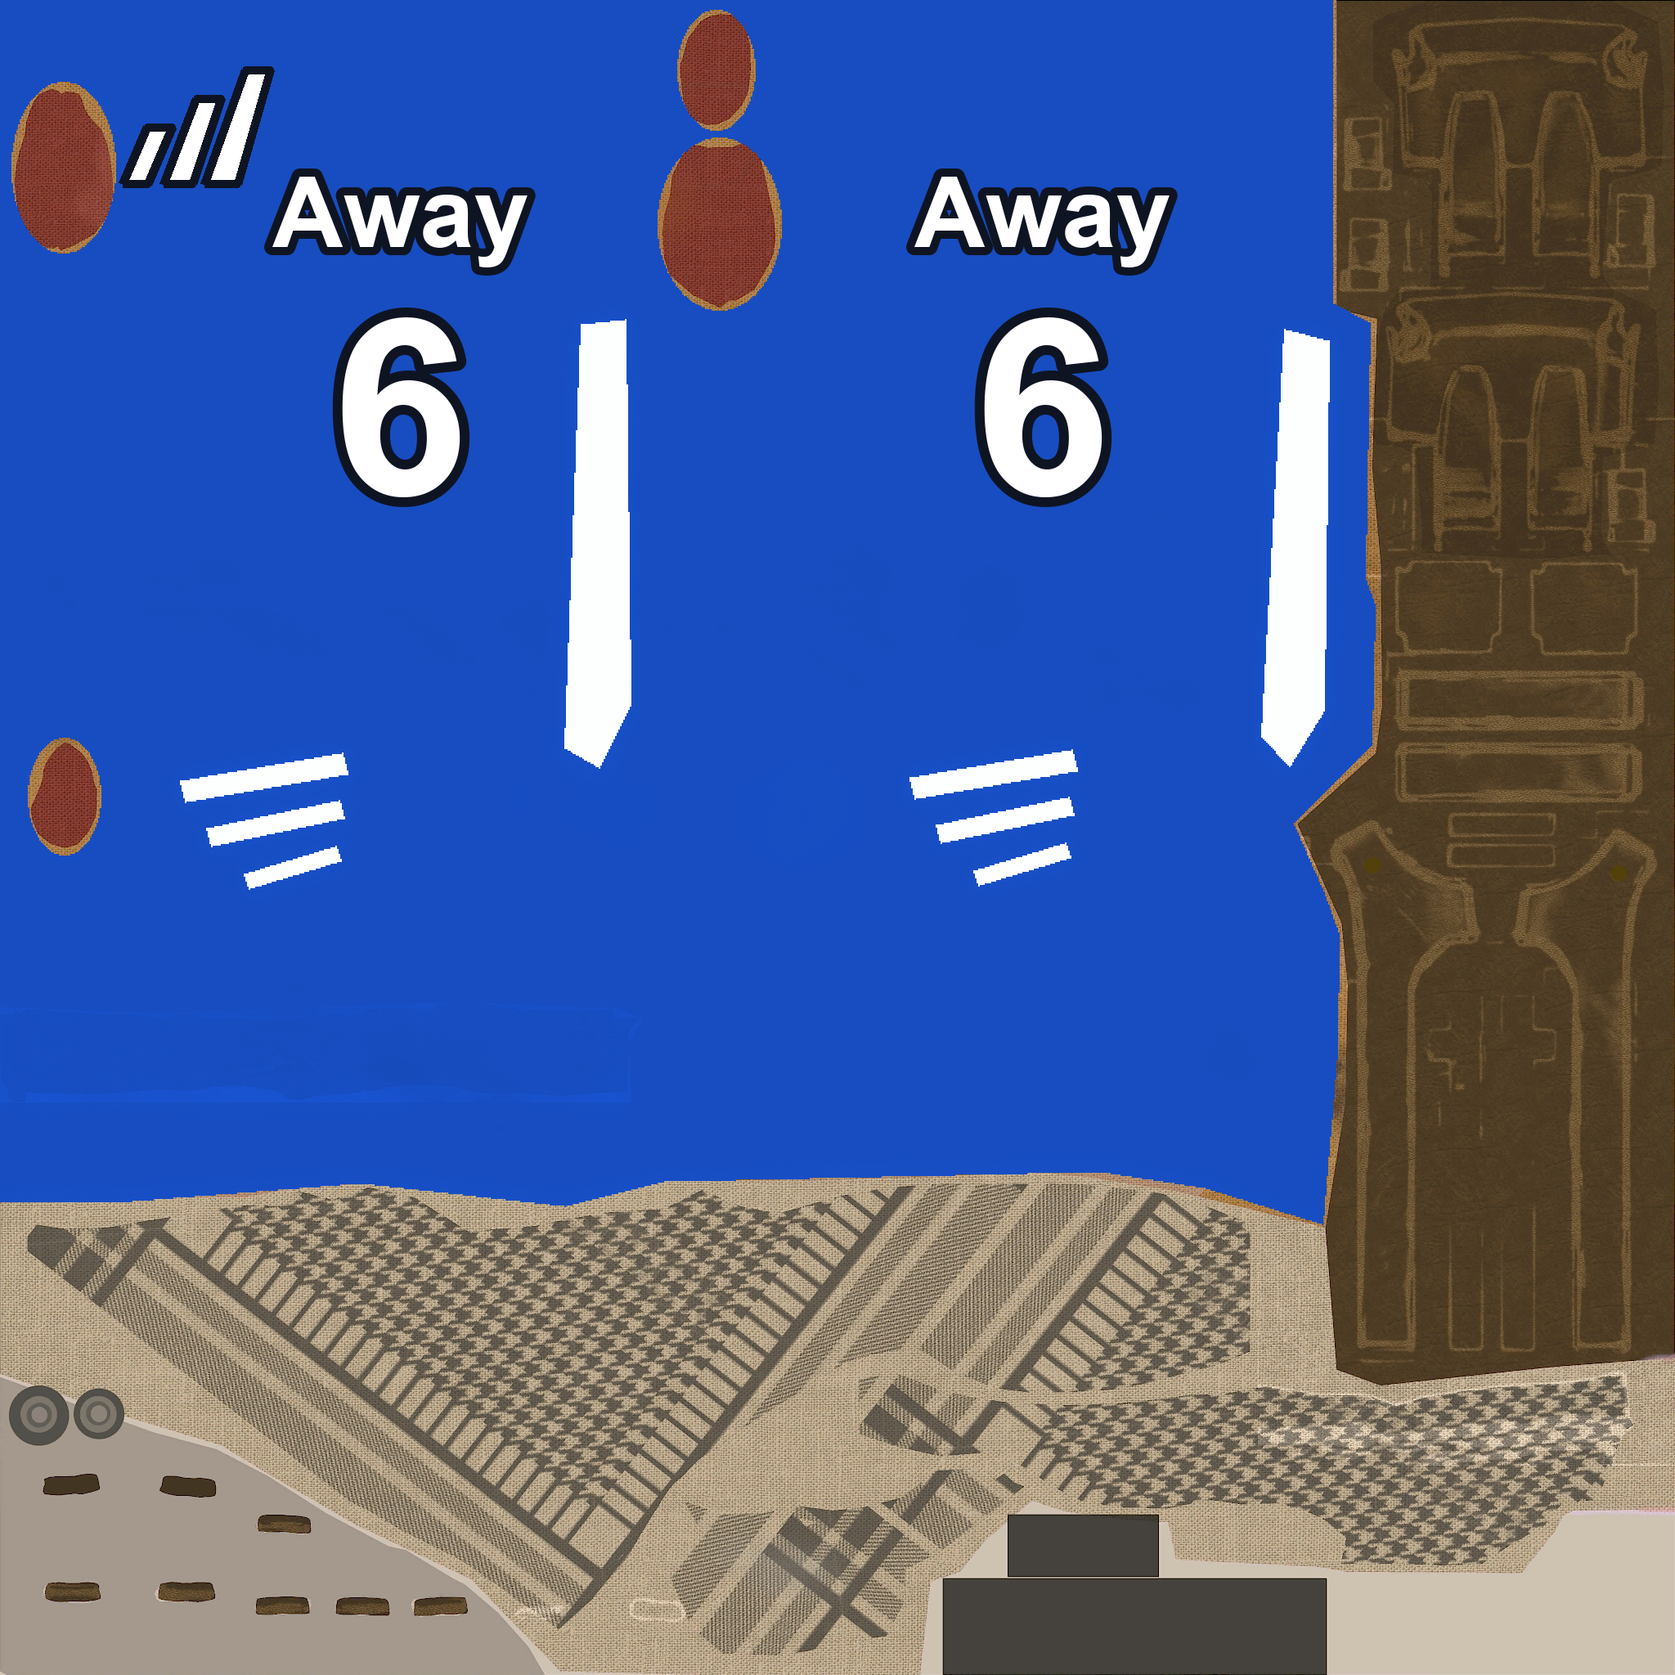
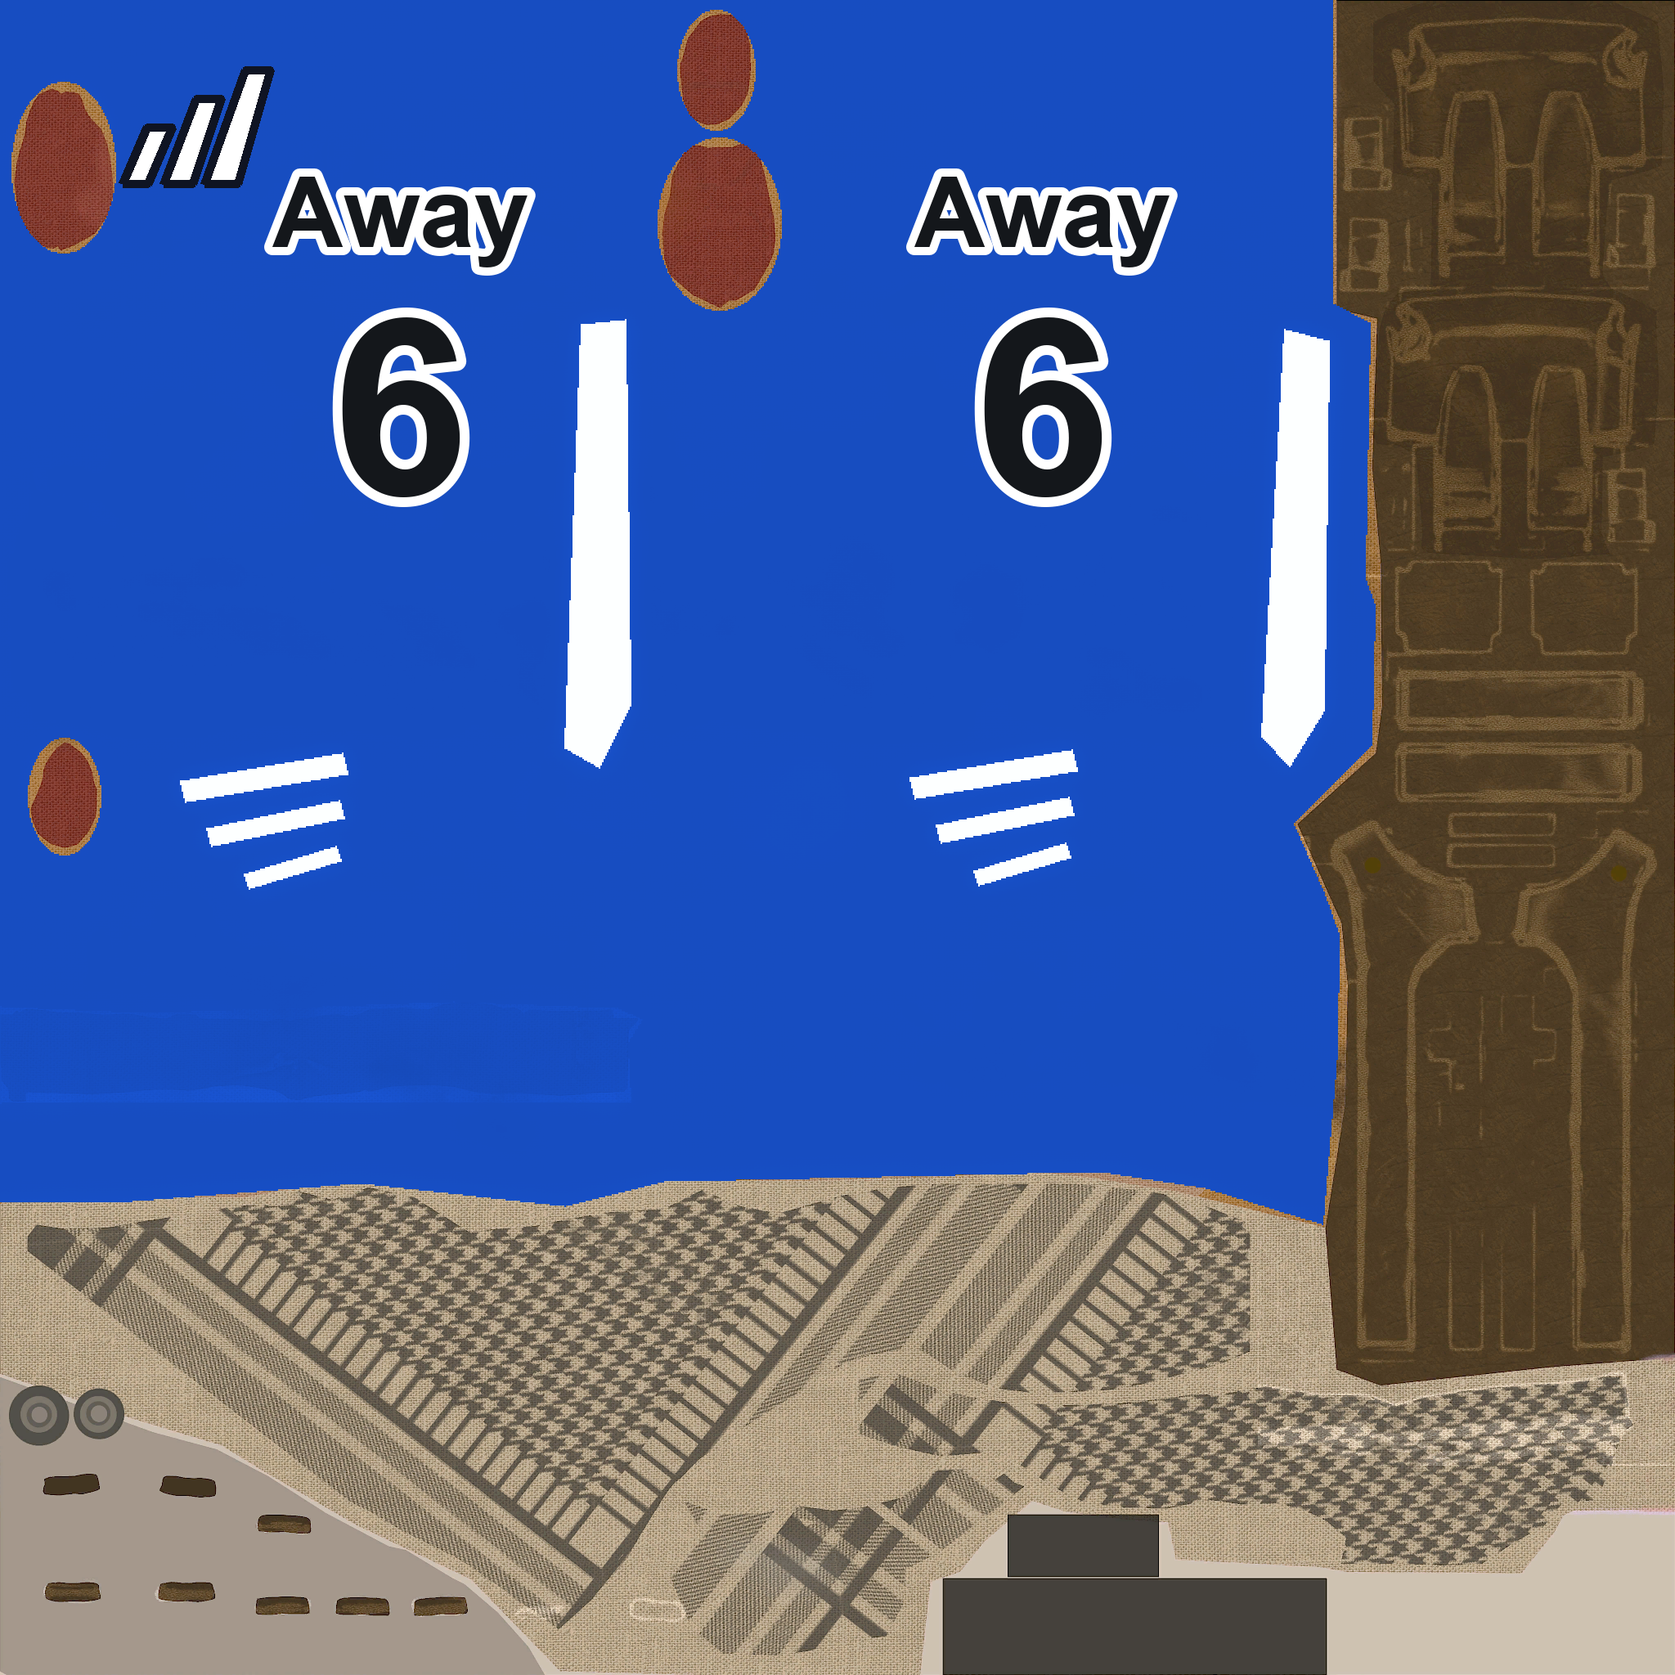
Add jersey outline correction and front inspection camera

diff --git a/test/third-person.test.js b/test/third-person.test.js
@@ -35,7 +35,10 @@ test('third person uses one camera prop per opted-in slot and resets it cleanly'
 test('!tp is permissionless and never touches player weapons', () => {
   assert.match(moduleSource, /css_sm2thirdperson/);
   assert.match(moduleSource, /css_tp/);
+  assert.match(moduleSource, /css_sm2thirdperson_front/);
+  assert.match(moduleSource, /css_tpf/);
   assert.match(socialSource, /!tp - toggle your third-person camera/);
+  assert.match(socialSource, /!tpf - view your player from the front/);
   const toggle = moduleSource.slice(moduleSource.indexOf("private void OnThirdPersonToggleCommand"), moduleSource.indexOf("private bool AttachThirdPersonCamera"));
   assert.doesNotMatch(toggle, /RequirePermission/);
   const tuning = moduleSource.slice(moduleSource.indexOf("private void OnThirdPersonTuneCommand"), moduleSource.indexOf("private void ThirdPersonOnUnload"));
@@ -51,6 +54,14 @@ test('third-person camera follows smoothly from pawn eye position and angles', (
   assert.match(moduleSource, /pawn\.V_angle/);
   assert.match(moduleSource, /LerpThirdPersonPosition/);
   assert.match(moduleSource, /camProp\.Teleport\(smoothedPosition, targetAngles, new Vector\(\)\)/);
+});
+
+test('!tpf uses a front-facing look-at transform and shares the third-person lifecycle', () => {
+  assert.match(moduleSource, /_thirdPersonFrontSlots/);
+  assert.match(moduleSource, /frontFacing/);
+  assert.match(moduleSource, /eyePosition\.X \+ forward\.X \* _thirdPersonDistance/);
+  assert.match(moduleSource, /MathF\.Atan2\(-toFace\.Z, horizontalDistance\)/);
+  assert.match(moduleSource, /front-facing third-person camera/);
 });
 
 test('third-person lifecycle is wired for load, tick, respawn, disconnect, and unload', () => {

diff --git a/src/server-plugin/SoccerModMvp/SoccerModMvpPlugin.ThirdPerson.cs b/src/server-plugin/SoccerModMvp/SoccerModMvpPlugin.ThirdPerson.cs
@@ -21,6 +21,7 @@ public sealed partial class SoccerModMvpPlugin
     private float _thirdPersonHeight = DefaultThirdPersonHeight;
 
     private readonly HashSet<int> _thirdPersonSlots = new();
+    private readonly HashSet<int> _thirdPersonFrontSlots = new();
     private readonly Dictionary<int, CDynamicProp> _thirdPersonCamBySlot = new();
 
     private void ThirdPersonOnLoad()
@@ -33,6 +34,14 @@ public sealed partial class SoccerModMvpPlugin
             "css_tp",
             "Chat alias: !tp toggles your third-person camera.",
             OnThirdPersonToggleCommand);
+        AddCommand(
+            "css_sm2thirdperson_front",
+            "Toggle your front-facing third-person camera.",
+            OnThirdPersonFrontToggleCommand);
+        AddCommand(
+            "css_tpf",
+            "Chat alias: !tpf toggles your front-facing third-person camera.",
+            OnThirdPersonFrontToggleCommand);
         AddCommand(
             "css_sm2tp_tune",
             "Admin: tune the third-person camera (distance, height above eyes).",
@@ -76,6 +85,7 @@ public sealed partial class SoccerModMvpPlugin
         }
 
         _thirdPersonSlots.Clear();
+        _thirdPersonFrontSlots.Clear();
     }
 
     private void ThirdPersonOnPlayerSpawn(CCSPlayerController player)
@@ -100,6 +110,7 @@ public sealed partial class SoccerModMvpPlugin
     {
         RemoveThirdPersonCamera(slot);
         _thirdPersonSlots.Remove(slot);
+        _thirdPersonFrontSlots.Remove(slot);
     }
 
     private void ThirdPersonOnTick()
@@ -117,7 +128,11 @@ public sealed partial class SoccerModMvpPlugin
             if (player is not { IsValid: true }
                 || pawn is not { IsValid: true }
                 || !IsAlive(pawn)
-                || !TryGetThirdPersonCameraTransform(pawn, out var targetPosition, out var targetAngles))
+                || !TryGetThirdPersonCameraTransform(
+                    pawn,
+                    _thirdPersonFrontSlots.Contains(slot),
+                    out var targetPosition,
+                    out var targetAngles))
             {
                 continue;
             }
@@ -152,6 +167,7 @@ public sealed partial class SoccerModMvpPlugin
         }
 
         _thirdPersonSlots.Add(player.Slot);
+        _thirdPersonFrontSlots.Remove(player.Slot);
         if (!AttachThirdPersonCamera(player, recreate: true, "toggle_on"))
         {
             _thirdPersonSlots.Remove(player.Slot);
@@ -160,6 +176,40 @@ public sealed partial class SoccerModMvpPlugin
         }
 
         command.ReplyToCommand("[SM] third-person camera: on (type !tp again to disable)");
+    }
+
+    private void OnThirdPersonFrontToggleCommand(CCSPlayerController? player, CommandInfo command)
+    {
+        if (player is not { IsValid: true })
+        {
+            command.ReplyToCommand("[SM] third person is available to in-game players only");
+            return;
+        }
+
+        if (_thirdPersonSlots.Contains(player.Slot)
+            && _thirdPersonFrontSlots.Contains(player.Slot))
+        {
+            DisableThirdPerson(player);
+            command.ReplyToCommand("[SM] front-facing third-person camera: off");
+            return;
+        }
+
+        var wasThirdPersonEnabled = _thirdPersonSlots.Contains(player.Slot);
+        _thirdPersonSlots.Add(player.Slot);
+        _thirdPersonFrontSlots.Add(player.Slot);
+        if (!AttachThirdPersonCamera(player, recreate: false, "front_toggle_on"))
+        {
+            _thirdPersonFrontSlots.Remove(player.Slot);
+            if (!wasThirdPersonEnabled)
+            {
+                _thirdPersonSlots.Remove(player.Slot);
+            }
+
+            command.ReplyToCommand("[SM] join a team and spawn before enabling front-facing third person");
+            return;
+        }
+
+        command.ReplyToCommand("[SM] front-facing third-person camera: on (type !tpf again to disable)");
     }
 
     private bool AttachThirdPersonCamera(CCSPlayerController player, bool recreate, string reason)
@@ -174,7 +224,11 @@ public sealed partial class SoccerModMvpPlugin
 
         var cameraServices = pawn.CameraServices;
         if (cameraServices is null
-            || !TryGetThirdPersonCameraTransform(pawn, out var position, out var angles))
+            || !TryGetThirdPersonCameraTransform(
+                pawn,
+                _thirdPersonFrontSlots.Contains(player.Slot),
+                out var position,
+                out var angles))
         {
             return false;
         }
@@ -240,6 +294,7 @@ public sealed partial class SoccerModMvpPlugin
         ResetThirdPersonView(player);
         RemoveThirdPersonCamera(player.Slot);
         _thirdPersonSlots.Remove(player.Slot);
+        _thirdPersonFrontSlots.Remove(player.Slot);
     }
 
     private static void ResetThirdPersonView(CCSPlayerController player)
@@ -271,6 +326,7 @@ public sealed partial class SoccerModMvpPlugin
 
     private bool TryGetThirdPersonCameraTransform(
         CCSPlayerPawn pawn,
+        bool frontFacing,
         out Vector position,
         out QAngle angles)
     {
@@ -303,11 +359,33 @@ public sealed partial class SoccerModMvpPlugin
             cosPitch * MathF.Sin(yawRadians),
             -MathF.Sin(pitchRadians));
 
+        if (!frontFacing)
+        {
+            position = new Vector(
+                eyePosition.X - forward.X * _thirdPersonDistance,
+                eyePosition.Y - forward.Y * _thirdPersonDistance,
+                eyePosition.Z - forward.Z * _thirdPersonDistance + _thirdPersonHeight);
+            angles = new QAngle(eyeAngles.X, eyeAngles.Y, 0.0f);
+            return true;
+        }
+
+        // Front inspection mode puts the camera in front of the player and
+        // aims back at the eyes, so the model's face stays visible while the
+        // player turns. Use a look-at angle instead of simply adding 180°:
+        // the height offset otherwise leaves the camera looking over the head.
         position = new Vector(
-            eyePosition.X - forward.X * _thirdPersonDistance,
-            eyePosition.Y - forward.Y * _thirdPersonDistance,
-            eyePosition.Z - forward.Z * _thirdPersonDistance + _thirdPersonHeight);
-        angles = new QAngle(eyeAngles.X, eyeAngles.Y, 0.0f);
+            eyePosition.X + forward.X * _thirdPersonDistance,
+            eyePosition.Y + forward.Y * _thirdPersonDistance,
+            eyePosition.Z + forward.Z * _thirdPersonDistance + _thirdPersonHeight);
+        var toFace = new Vector(
+            eyePosition.X - position.X,
+            eyePosition.Y - position.Y,
+            eyePosition.Z - position.Z);
+        var horizontalDistance = MathF.Sqrt(
+            (toFace.X * toFace.X) + (toFace.Y * toFace.Y));
+        var frontPitch = MathF.Atan2(-toFace.Z, horizontalDistance) * (180.0f / MathF.PI);
+        var frontYaw = MathF.Atan2(toFace.Y, toFace.X) * (180.0f / MathF.PI);
+        angles = new QAngle(frontPitch, frontYaw, 0.0f);
         return true;
     }
 

diff --git a/src/server-plugin/SoccerModMvp/SoccerModMvpPlugin.Social.cs b/src/server-plugin/SoccerModMvp/SoccerModMvpPlugin.Social.cs
@@ -233,6 +233,7 @@ public sealed partial class SoccerModMvpPlugin
         command.ReplyToCommand("[SM] !forfeit - vote to forfeit for your team");
         command.ReplyToCommand("[SM] !sprint - burst of speed (or hold your +use key)");
         command.ReplyToCommand("[SM] !tp - toggle your third-person camera");
+        command.ReplyToCommand("[SM] !tpf - view your player from the front");
         command.ReplyToCommand("[SM] !gk - keeper skin + unlimited reduced-speed sprint inside your own small GK box");
         command.ReplyToCommand("[SM] !pos - set your cap positions");
         command.ReplyToCommand("[SM] !spec me - move yourself to spectator");
@@ -252,6 +253,7 @@ public sealed partial class SoccerModMvpPlugin
         player.PrintToChat(" \x04[SM]\x01 !forfeit - vote to forfeit for your team");
         player.PrintToChat(" \x04[SM]\x01 !sprint - burst of speed (or hold your +use key)");
         player.PrintToChat(" \x04[SM]\x01 !tp - toggle your third-person camera");
+        player.PrintToChat(" \x04[SM]\x01 !tpf - view your player from the front");
         player.PrintToChat(" \x04[SM]\x01 !gk - keeper skin + unlimited reduced-speed sprint inside your own small GK box");
         player.PrintToChat(" \x04[SM]\x01 !pos - set your cap positions");
         player.PrintToChat(" \x04[SM]\x01 !spec me - move yourself to spectator");

diff --git a/docs/jerseys/paint-gk-gearless.py b/docs/jerseys/paint-gk-gearless.py
@@ -225,7 +225,7 @@ def main() -> None:
     reports = []
     reports.append(paint_body(args.stock_dir, "gkhome_gearless", (111, 40, 145), (20, 23, 27), (255, 255, 255), (20, 23, 27)))
     reports.append(paint_legs(args.stock_dir, "gkhome_gearless", (20, 23, 27), (111, 40, 145), (20, 23, 27), (20, 23, 27), geometry))
-    reports.append(paint_body(args.stock_dir, "gkaway_gearless", (238, 241, 245), (25, 83, 185), (20, 23, 27), (245, 245, 245)))
+    reports.append(paint_body(args.stock_dir, "gkaway_gearless", (238, 241, 245), (25, 83, 185), (255, 255, 255), (20, 23, 27)))
     reports.append(paint_legs(args.stock_dir, "gkaway_gearless", (232, 236, 243), (232, 236, 243), (25, 83, 185), (52, 194, 80), geometry))
     reports.append(make_glove_texture("gkhome_gearless_gloves_color", (245, 245, 245)))
     reports.append(make_glove_texture("gkaway_gearless_gloves_color", (25, 93, 220)))

diff --git a/docs/jerseys/paint-remaining-kits.py b/docs/jerseys/paint-remaining-kits.py
@@ -85,8 +85,8 @@ def main():
   editable_body=bm
   if kit=='away':
    number_mask, number_layer = render_fixed_number(
-    base.size, '6', (255,255,255), (15,20,35), label='Away',
-    label_colour=(255,255,255), label_stroke=(15,20,35),
+    base.size, '6', (20,23,27), (255,255,255), label='Away',
+    label_colour=(20,23,27), label_stroke=(255,255,255),
    )
    logo_mask, logo_layer = render_adidas_front(base.size, (255,255,255), (15,20,35))
    editable_body=Image.fromarray(np.maximum.reduce((np.asarray(bm), np.asarray(number_mask), np.asarray(logo_mask))))

diff --git a/docs/jerseys/2026-09-09-outline-and-tpf-update.md b/docs/jerseys/2026-09-09-outline-and-tpf-update.md
@@ -1,0 +1,41 @@
+# Jersey outline and front-inspection update — September 9, 2026
+
+This revision keeps the approved static jersey setup and changes only the
+requested Away text treatment plus the server-side inspection command.
+
+## Texture correction
+
+- Blue Away field jersey: fixed `6` and `Away` use black fill with white
+  borders.
+- White Away goalkeeper jersey: fixed `1` and `Away` use white fill with
+  black borders.
+- Home textures and the restored belt geometry are unchanged.
+- Dynamic jersey rendering remains disabled; the fixed textures are the
+  source of the displayed numbers and labels.
+
+The package is intentionally minimal: compared with the preceding live VPK,
+only these two compiled body textures differ:
+
+```text
+materials/soccermod/kits/tm_leet_v2_body_variantb_color_png_6c16c1b4.vtex_c
+materials/soccermod/kits/tm_leet_v2_body_variantb_gkaway_color_png_53a6157d.vtex_c
+```
+
+## `!tpf`
+
+`!tpf` (console command `css_tpf`) toggles a front-facing third-person
+inspection camera. The camera sits in front of the player, aims back at the
+player's eyes, follows movement smoothly, and uses the same spawn,
+disconnect, and cleanup lifecycle as `!tp`. It does not remove or replace
+weapons. `!tp` remains the normal rear third-person toggle.
+
+## Verified package
+
+```text
+artifacts/kits-jersey-outline-tpf-upload/3797479770_dir.vpk
+size: 33,900,554 bytes
+sha256: DC1A0AD8F09AAAC06A06D82E27129DE752571253F88D700D100E2B6ED3162675
+```
+
+Source2Viewer VPK verification passed. The corresponding Workshop update
+manifest is `workshop-jersey-outline-tpf-update.vdf`.

diff --git a/docs/jerseys/INSTALLATION.md b/docs/jerseys/INSTALLATION.md
@@ -11,16 +11,16 @@ contains the four compiled player models, materials and textures:
 | Squad | Field player | Goalkeeper |
 |---|---|---|
 | Home | red kit with fixed `8` | purple/black kit with fixed `1` and white gloves |
-| Away | blue kit with fixed `6` | white kit with black `1` and black `Away` label with white border |
+| Away | blue kit with fixed `6` (black fill, white border) | white kit with white `1` and white `Away` label (black borders) |
 
 The latest belt-revert revision restores the previously approved belt/waist
 geometry. The other previously removed gear remains removed from the models;
 the belt correction is a model change, not a texture cover-up.
 
-The current verified package is 33,898,209 bytes with SHA-256:
+The current verified package is 33,900,554 bytes with SHA-256:
 
 ```text
[2 lines of base64/hex data omitted]
 ```
 
 ## Server prerequisites
@@ -83,6 +83,11 @@ The expected state is `kits` for team models and `requested=off` for dynamic
 jersey text. With dynamic jerseys off, the numbers and labels come from the
 approved textures: Home `8`, Away `6`, and goalkeeper `1`. No number command
 is needed for the static package.
+
+For front-side inspection of your own model, use `!tpf`. It moves the
+third-person camera in front of the player and aims it back at the face;
+`!tpf` again disables that view. The existing `!tp` command continues to
+toggle the normal rear third-person camera.
 
 ## Client installation and verification
 

diff --git a/docs/2026-08-31-thirdperson-spec.md b/docs/2026-08-31-thirdperson-spec.md
@@ -44,8 +44,10 @@ Beobachtungsmodus, aber dann mit einem Warnhinweis im Reply-Text versehen
 
 ## Command
 
-`css_sm2thirdperson` (Chat-Alias `!tp` automatisch über CSSharp) — **kein**
-`RequirePermission`-Gate, für alle Spieler offen (User-Entscheidung).
+`css_sm2thirdperson` (Chat-Alias `!tp` automatisch über CSSharp) toggles the
+normal rear camera. `css_sm2thirdperson_front` (chat alias `!tpf`) toggles a
+front-facing inspection camera that aims back at the player's eyes. Both are
+permissionless and available to all players.
 
 ## Zustand
 
@@ -53,13 +55,14 @@ Reiner Session-State, kein `MatchSettingsStore`-Eintrag nötig (geht beim Discon
 verloren, das ist so gewollt):
 ```csharp
 private readonly HashSet<int> _thirdPersonSlots = new();
+private readonly HashSet<int> _thirdPersonFrontSlots = new();
 private readonly Dictionary<int, CDynamicProp> _thirdPersonCamBySlot = new();
 ```
 
 ## Toggle-Verhalten
 
-- **An:** Kamera-Prop spawnen (s.o.), `ViewEntity` setzen, Slot in beide Strukturen
-  eintragen.
+- **An:** Kamera-Prop spawnen (s.o.), `ViewEntity` setzen, Slot in die
+  entsprechenden Kamera-/Front-Modus-Strukturen eintragen.
 - **Aus:** `ViewEntity.Raw = uint.MaxValue`, Prop entfernen, Slot aus beiden
   Strukturen entfernen.
 - **Messer explizit NICHT anfassen** — kein `RemoveWeapons`/`GiveNamedItem` in

diff --git a/docs/COMMANDS.md b/docs/COMMANDS.md
@@ -16,6 +16,7 @@ who wants direct chat/console access.
 | `!t` / `!ct` / `!afk` / `!brb` | Join a team or move to spectator. Only outside a running match. |
 | `!sprint` | Burst of speed (1.25×, 3s, 7.5s cooldown) — or just hold your `+use` key. |
 | `!tp` | Toggle third-person camera. |
+| `!tpf` | Toggle front-facing third-person camera for inspecting your jersey/model. |
 | `!gk` | Claim/release your team's keeper skin (one per team). Enables unlimited sprint in your own small GK box at 1.175× speed (70% of the normal sprint bonus). Same sprint controls; normal stamina/speed outside. |
 | `!kill` | Respawn yourself instantly if you get stuck. |
 | `!rdy` | Mark yourself ready during a match pause — resumes automatically once everyone is. |
